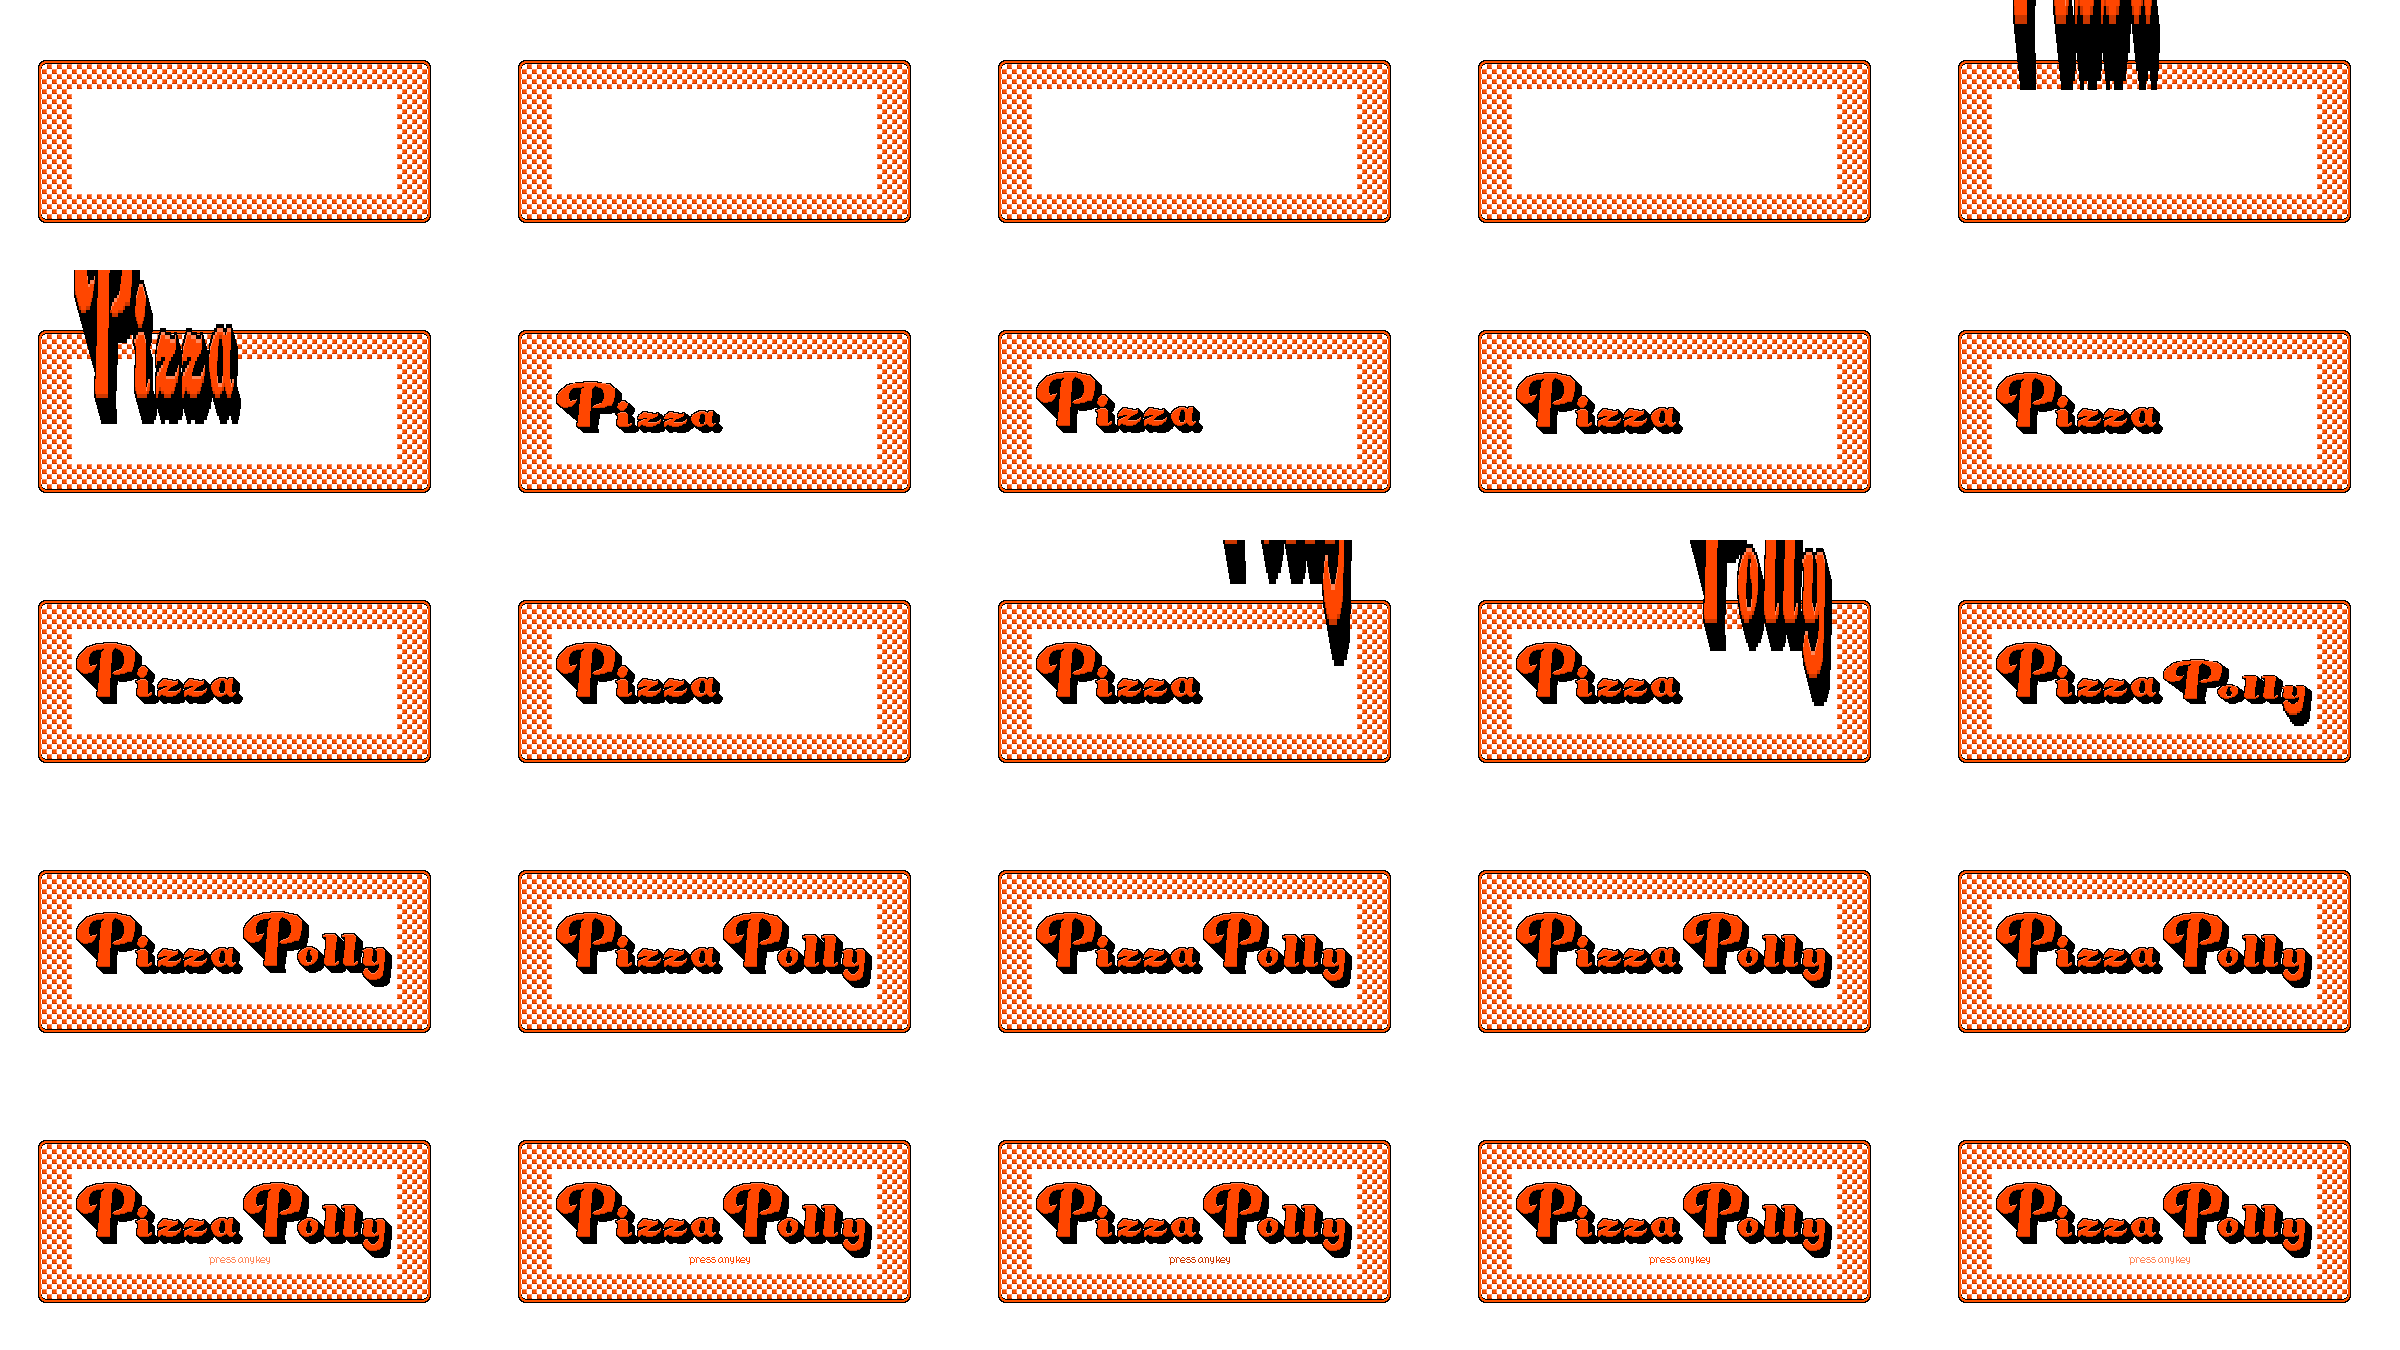
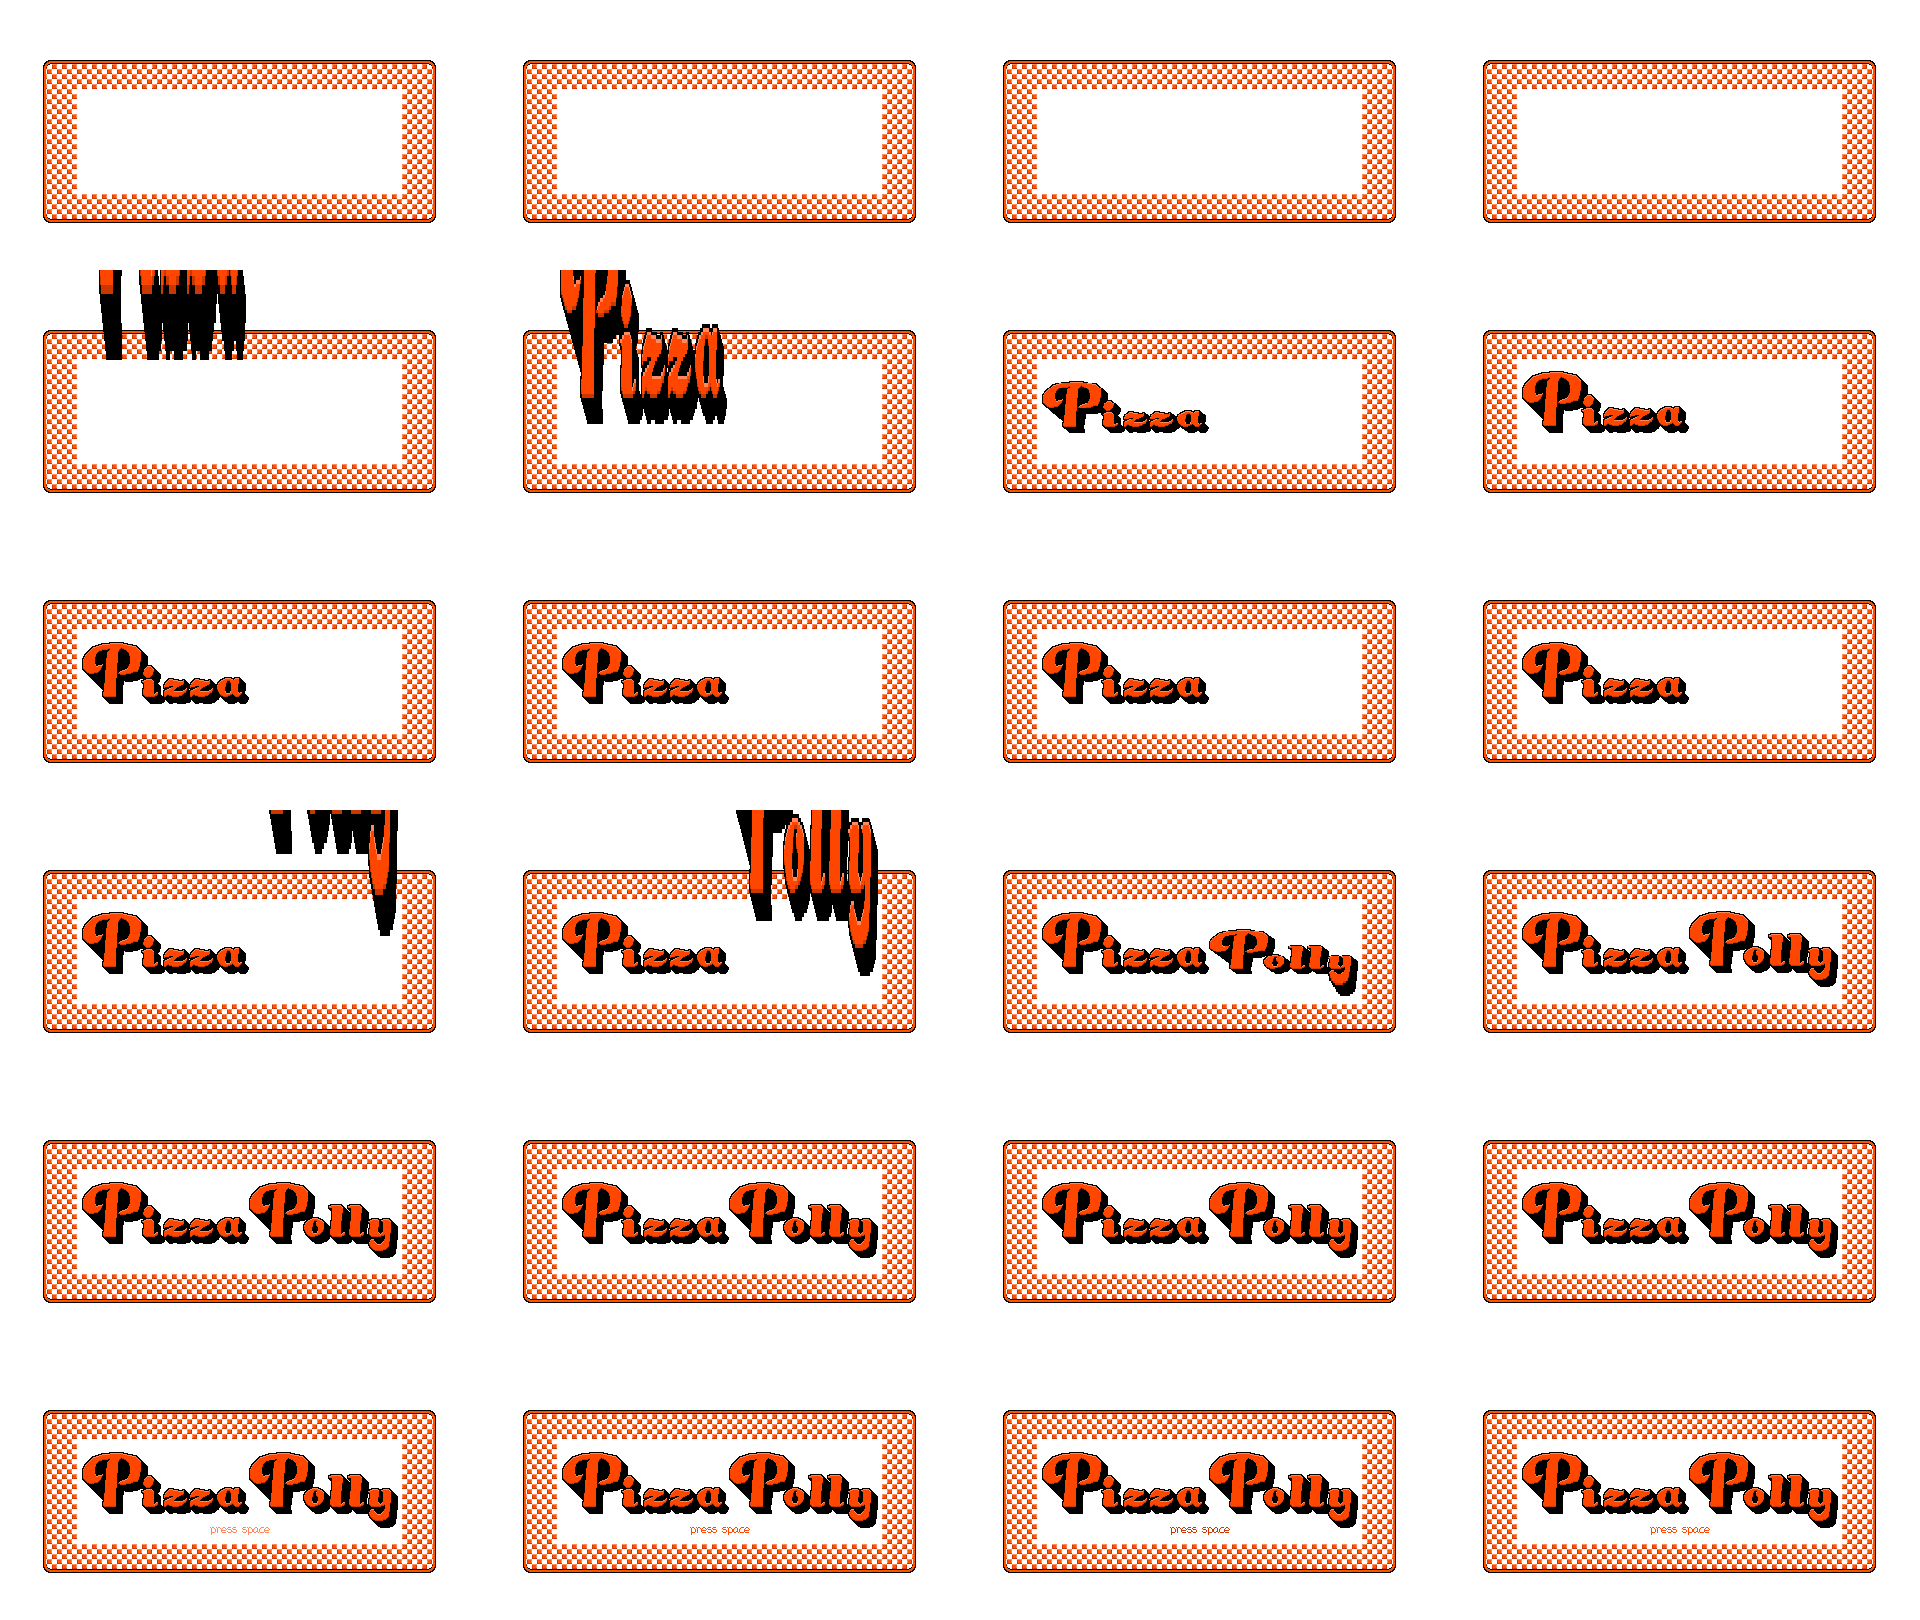
new Polly walk left/right animations

diff --git a/_Polly.cpp b/_Polly.cpp
@@ -1,9 +1,10 @@
 #include "_Polly.h"
 #include "sprite.h"
 #include "input.h"
+#include "camera.h"
 
 _Polly::_Polly(game* Game, SDL_Renderer* Renderer, int SW, int SH, int Scale) : element(Game) {
-	fps = 200;
+	fps = 300;
 
 	//load Polly
 	setPosition(Vector2((SW / 2), (SH / 2)));
@@ -19,16 +20,95 @@ _Polly::_Polly(game* Game, SDL_Renderer* Renderer, int SW, int SH, int Scale) : 
 		Vector2(0, 0),
 		Vector2(6, 7)
 	);
+	pollyCam = new camera(this);
 
 	//set controls
 	up = new input(this, SDL_SCANCODE_UP);
 	down = new input(this, SDL_SCANCODE_DOWN);
 	left = new input(this, SDL_SCANCODE_LEFT);
 	right = new input(this, SDL_SCANCODE_RIGHT);
+	buttonPress = false;
 }
 
 void _Polly::updateElement(float deltaTime) {
+	//press keys
+	position = getPosition();
+	if (up->getPress()) {
+		if(!buttonPress){
+			polly->setTexture("assets/art/Polly_walk_back.png");
+			polly->setSource(0, 0, 26, 56);
+			polly->setAnimated(
+				true,
+				Vector2(104, 56),
+				4, 1,
+				250,
+				Vector2(0, 0),
+				Vector2(0, 0),
+				Vector2(3, 0)
+				);
+		}
+		position.y -= static_cast<int>(300 * deltaTime);
+		buttonPress = true;
+	}
+	if (down->getPress()) {
+		if (!buttonPress) {
+			polly->destroyTexture();
+			polly->setTexture("assets/art/Polly_walk_forward.png");
+			polly->setSource(0, 0, 26, 56);
+			polly->setAnimated(
+				true,
+				Vector2(104, 56),
+				4, 1,
+				250,
+				Vector2(0, 0),
+				Vector2(0, 0),
+				Vector2(3, 0)
+			);
+		}
+		position.y += static_cast<int>(300 * deltaTime);
+		buttonPress = true;
+	}
+	if (left->getPress()) {
+		if (!buttonPress) {
+			polly->destroyTexture();
+			polly->setTexture("assets/art/Polly_walk_left.png");
+			polly->setSource(0, 0, 26, 56);
+			polly->setAnimated(
+				true,
+				Vector2(156, 56),
+				6, 1,
+				350,
+				Vector2(0, 0),
+				Vector2(0, 0),
+				Vector2(5, 0)
+			);
+		}
+		position.x -= static_cast<int>(400 * deltaTime);
+		buttonPress = true;
+	}
+	if (right->getPress()) {
+		if (!buttonPress) {
+			polly->destroyTexture();
+			polly->setTexture("assets/art/Polly_walk_right.png");
+			polly->setSource(0, 0, 26, 56);
+			polly->setAnimated(
+				true,
+				Vector2(156, 56),
+				6, 1,
+				350,
+				Vector2(0, 0),
+				Vector2(0, 0),
+				Vector2(5, 0)
+			);
+		}
+		position.x += static_cast<int>(400 * deltaTime);
+		buttonPress = true;
+	}
+	setPosition(position);	
+
+	// lift keys
 	if (up->getLift()) {
+		polly->destroyTexture();
 		polly->setTexture("assets/art/Polly_idle_back.png");
 		polly->setSource(0, 0, 26, 56);
 		polly->setAnimated(
@@ -40,8 +120,10 @@ void _Polly::updateElement(float deltaTime) {
 			Vector2(0, 0),
 			Vector2(6, 0)
 		);
+		buttonPress = false;
 	}
 	if (down->getLift()) {
+		polly->destroyTexture();
 		polly->setTexture("assets/art/Polly_idle_forward.png");
 		polly->setSource(0, 0, 26, 56);
 		polly->setAnimated(
@@ -53,8 +135,10 @@ void _Polly::updateElement(float deltaTime) {
 			Vector2(0, 0),
 			Vector2(6, 7)
 		);
+		buttonPress = false;
 	}
 	if (left->getLift()) {
+		polly->destroyTexture();
 		polly->setTexture("assets/art/Polly_idle_left.png");
 		polly->setSource(0, 0, 26, 56);
 		polly->setAnimated(
@@ -66,8 +150,10 @@ void _Polly::updateElement(float deltaTime) {
 			Vector2(0, 0),
 			Vector2(6, 7)
 		);
+		buttonPress = false;
 	}
 	if (right->getLift()) {
+		polly->destroyTexture();
 		polly->setTexture("assets/art/Polly_idle_right.png");
 		polly->setSource(0, 0, 26, 56);
 		polly->setAnimated(
@@ -79,6 +165,7 @@ void _Polly::updateElement(float deltaTime) {
 			Vector2(0, 0),
 			Vector2(6, 7)
 		);
+		buttonPress = false;
 	}
 }
 

diff --git a/test_area.cpp b/test_area.cpp
@@ -1,0 +1,41 @@
+#include "test_area.h"
+#include "_Polly.h"
+#include "input.h"
+#include "element.h"
+#include "sprite.h"
+
+test_area::test_area(game* Game, SDL_Renderer* Renderer, int SW, int SH, int Scale) : scene(Game) {
+	renderer = Renderer;
+	screenWidth = SW;
+	screenHeight = SH;
+	scale = Scale;
+
+	polly = nullptr;
+	Background = nullptr;
+	background = nullptr;
+	exit = nullptr;
+
+	load();
+}
+
+void test_area::load() {
+	polly = new _Polly(sGame, renderer, screenWidth, screenHeight, scale);
+	Background = new element(sGame);
+	Background->setPosition(Vector2((screenWidth / 2), (screenHeight / 2)));
+	background = new sprite(Background, renderer, screenWidth, screenHeight, 0);
+	background->setTexture("assets/art/background6.png");
+	exit = new input(polly, SDL_SCANCODE_RETURN);
+}
+
+void test_area::update(float deltaTime) {
+	if (exit->getPress()) runUnload = true;
+}
+
+void test_area::unload() {
+	delete polly;
+	delete Background;
+	sceneState = inactive;
+	sGame->setScene(sGame->Pretitle);
+	sGame->load();
+}
+

diff --git a/title.cpp b/title.cpp
@@ -11,6 +11,8 @@ title::title(game* Game, SDL_Renderer* Renderer, int SW, int SH, int Scale) : sc
 	screenHeight = SH;
 	scale = Scale;
 
+	sGame->resetCamera();
+
 	Background = nullptr;
 	background = nullptr;
 	TitleCard = nullptr;
@@ -44,12 +46,12 @@ void title::load() {
 	titleCard->setSource(0, 0, 480, 270);
 	titleCard->setAnimated(
 		true,
-		Vector2(2400, 1350),
-		5, 5,
+		Vector2(1920, 1620),
+		4, 6,
 		5000,
 		Vector2(0, 0),
-		Vector2(0, 4),
-		Vector2(4, 4)
+		Vector2(0, 5),
+		Vector2(3, 5)
 	);
 
 	//theme music
@@ -68,7 +70,7 @@ void title::unload() {
 	theme = nullptr;
 	Mix_CloseAudio();
 	sceneState = inactive;
-	sGame->setScene(sGame->Pretitle);
+	sGame->setScene(sGame->Test_Area);
 	sGame->load();
 }
 

diff --git a/test_area.h b/test_area.h
@@ -1,0 +1,24 @@
+#pragma once
+#include "scene.h"
+class test_area :
+    public scene
+{
+public:
+    test_area(game* Game, SDL_Renderer* Renderer, int SW, int SH, int Scale);
+
+    void load() override;
+    void unload() override;
+    void update(float deltaTime) override;
+
+private:
+    SDL_Renderer* renderer;
+    int screenWidth, screenHeight, scale;
+
+    class _Polly* polly;
+    class element* Background;
+    class sprite* background;
+    class input* exit;
+
+
+};
+

diff --git a/game.cpp b/game.cpp
@@ -7,6 +7,7 @@
 #include "pretitle.h"
 #include "title.h"
 #include "input.h"
+#include "test_area.h"
 
 game::game() {
 	window = nullptr;
@@ -30,6 +31,7 @@ game::game() {
 	//scenes
 	pretitleScene = nullptr;
 	titleScene = nullptr;
+	testAreaScene = nullptr;
 }
 
 game::~game() {
@@ -114,7 +116,7 @@ void game::load() {
 		break;
 	
 	case Test_Area:
-
+		testAreaScene = new test_area(this, renderer, screenWidth, screenHeight, scale);
 		break;
 	}
 }

diff --git a/game.h b/game.h
@@ -63,6 +63,11 @@ public:
 		Camera->x = X;
 		Camera->y = Y;
 	}
+	//reset camera to center of screen
+	void resetCamera() {
+		Camera->x = 0;
+		Camera->y = 0;
+	}
 
 private:
 	//begin process for user input
@@ -119,6 +124,7 @@ private:
 	//game scenes
 	class pretitle* pretitleScene;
 	class title* titleScene;
+	class test_area* testAreaScene;
 
 
 };

diff --git a/_Polly.h b/_Polly.h
@@ -11,11 +11,14 @@ public:
 
 private:
     class sprite* polly;
+    class camera* pollyCam;
 
+    Vector2 position;
     class input* up;
     class input* down;
     class input* left;
     class input* right;
+    bool buttonPress;
 
     int fps;
 };

diff --git a/input.h b/input.h
@@ -10,6 +10,7 @@ public:
     bool getPress();
     //returns true only once if key is lifted
     bool getLift();
+    //returns if key is being currently pressed
 
 private:
     const Uint8* keyState;

diff --git a/pretitle.cpp b/pretitle.cpp
@@ -8,6 +8,8 @@ pretitle::pretitle(game* Game, SDL_Renderer* Renderer, int SW, int SH, int Scale
 	screenHeight = SH;
 	scale = Scale;
 
+	sGame->resetCamera();
+
 	Logo = nullptr;
 	logo = nullptr;
 

diff --git a/input.cpp b/input.cpp
@@ -13,7 +13,6 @@ bool input::getPress() {
 		wasPressed = true;
 		return true;
 	}
-
 	return false;
 }
 
